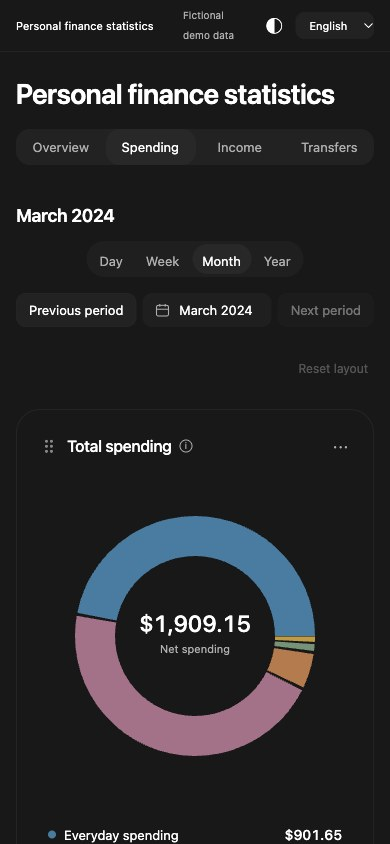
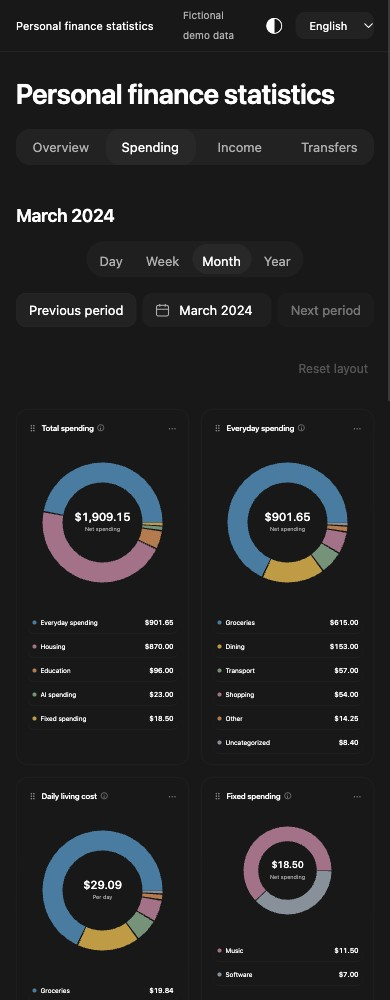
fix(report): Preserve two-column phone cards at proportional scale
Release v1.4.1 with zoom-aware drag coordinates and an updated fictional phone demo.

diff --git a/skills/personal-finance-visualizer/assets/app.js b/skills/personal-finance-visualizer/assets/app.js
@@ -358,15 +358,15 @@
     const saved=layouts[view]||[];arrange([...saved.filter(id=>byId.has(id)),...defaults.filter(id=>!saved.includes(id))]);
     const layoutView=view;let dragging=null,raf=0,moveAnimations=new Map();
     const boxes=()=>new Map(cards.filter(c=>!c.classList.contains('is-dragging')).map(c=>[c,c.getBoundingClientRect()]));
-    function animateMove(before){if(reducedMotion())return;for(const [card,old]of before){moveAnimations.get(card)?.cancel();const now=card.getBoundingClientRect(),dx=old.left-now.left,dy=old.top-now.top;if(Math.abs(dx)+Math.abs(dy)<1)continue;const animation=card.animate([{transform:`translate(${dx}px,${dy}px)`},{transform:'translate(0,0)'}],{duration:220,easing:'cubic-bezier(.22,1,.36,1)'});moveAnimations.set(card,animation);animation.onfinish=()=>{if(moveAnimations.get(card)===animation)moveAnimations.delete(card);};}}
+    function animateMove(before){if(reducedMotion())return;for(const [card,old]of before){moveAnimations.get(card)?.cancel();const now=card.getBoundingClientRect(),dx=old.left-now.left,dy=old.top-now.top;if(Math.abs(dx)+Math.abs(dy)<1)continue;const zoom=Number(getComputedStyle(card).zoom)||1;const animation=card.animate([{transform:`translate(${dx/zoom}px,${dy/zoom}px)`},{transform:'translate(0,0)'}],{duration:220,easing:'cubic-bezier(.22,1,.36,1)'});moveAnimations.set(card,animation);animation.onfinish=()=>{if(moveAnimations.get(card)===animation)moveAnimations.delete(card);};}}
     function save(){const ids=current(),visible=new Set(ids),old=layouts[layoutView]||defaults,queue=ids.slice();layouts[layoutView]=[...old.map(id=>visible.has(id)?queue.shift():id),...queue].filter(Boolean);write(t('layoutSaved'));}
     function write(message){try{localStorage.setItem(layoutStorageKey,JSON.stringify({version:1,views:layouts}));status.textContent=message;warning.hidden=true;}catch{warning.textContent=t('layoutUnavailable');warning.hidden=false;}reset.disabled=!layouts[layoutView];}
     function restore(){if(dragging)finish(false);const before=boxes();arrange(defaults);delete layouts[layoutView];write(t('layoutReset'));animateMove(before);}
     reset.disabled=!layouts[view];
     const orderAnnouncement=card=>{status.textContent=card.querySelector('h2')?.textContent+' · '+(current().indexOf(card.dataset.cardId)+1)+' / '+cards.length;};
     function start(event,card,header){if(event.button!==0||dragging||event.target.closest('button:not(.drag-handle),input,select,a,summary,.chart-menu'))return;event.preventDefault();header.querySelector('.drag-handle').focus({preventScroll:true});dragging={card,header,id:event.pointerId,startX:event.clientX,startY:event.clientY,x:event.clientX,y:event.clientY,before:current(),active:false,lastMove:0};header.setPointerCapture(event.pointerId);}
-    function activate(){const d=dragging,rect=d.card.getBoundingClientRect();moveAnimations.get(d.card)?.cancel();d.rect=rect;d.style=d.card.getAttribute('style');d.placeholder=e('div','card-placeholder');d.placeholder.dataset.cardSpan=d.card.dataset.cardSpan;d.placeholder.style.height=rect.height+'px';d.placeholder.setAttribute('aria-hidden','true');d.card.before(d.placeholder);d.card.classList.add('is-dragging');Object.assign(d.card.style,{position:'fixed',left:rect.left+'px',top:rect.top+'px',width:rect.width+'px',height:rect.height+'px',margin:'0',zIndex:'1000',pointerEvents:'none'});document.body.classList.add('layout-dragging');d.active=true;hideChartTip();raf=requestAnimationFrame(tick);}
-    function tick(now){const d=dragging;if(!d?.active)return;d.card.style.transform=`translate3d(${d.x-d.startX}px,${d.y-d.startY}px,0)`;const scroll=d.y<72?-Math.ceil((72-d.y)/6):d.y>innerHeight-72?Math.ceil((d.y-innerHeight+72)/6):0;if(scroll)window.scrollBy(0,scroll);
+    function activate(){const d=dragging,rect=d.card.getBoundingClientRect();moveAnimations.get(d.card)?.cancel();d.rect=rect;d.zoom=Number(getComputedStyle(d.card).zoom)||1;d.style=d.card.getAttribute('style');d.placeholder=e('div','card-placeholder');d.placeholder.dataset.cardSpan=d.card.dataset.cardSpan;d.placeholder.style.height=rect.height+'px';d.placeholder.setAttribute('aria-hidden','true');d.card.before(d.placeholder);d.card.classList.add('is-dragging');Object.assign(d.card.style,{position:'fixed',left:rect.left/d.zoom+'px',top:rect.top/d.zoom+'px',width:rect.width/d.zoom+'px',height:rect.height/d.zoom+'px',margin:'0',zIndex:'1000',pointerEvents:'none'});document.body.classList.add('layout-dragging');d.active=true;hideChartTip();raf=requestAnimationFrame(tick);}
+    function tick(now){const d=dragging;if(!d?.active)return;d.card.style.transform=`translate3d(${(d.x-d.startX)/d.zoom}px,${(d.y-d.startY)/d.zoom}px,0)`;const scroll=d.y<72?-Math.ceil((72-d.y)/6):d.y>innerHeight-72?Math.ceil((d.y-innerHeight+72)/6):0;if(scroll)window.scrollBy(0,scroll);
       const target=document.elementFromPoint(d.x,d.y)?.closest('[data-card-id]');if(target&&target!==d.card&&target.parentElement===board&&now-d.lastMove>240){const siblings=[...board.children].filter(n=>n!==d.card);const from=siblings.indexOf(d.placeholder),targetIndex=siblings.indexOf(target),after=targetIndex>from,at=targetIndex+(after?1:0),to=at>from?at-1:at;if(from!==to){const before=boxes();if(after)target.after(d.placeholder);else target.before(d.placeholder);animateMove(before);d.lastMove=now;}}
       raf=requestAnimationFrame(tick);
     }

diff --git a/skills/personal-finance-visualizer/assets/report.css b/skills/personal-finance-visualizer/assets/report.css
@@ -115,3 +115,12 @@
 @keyframes finance-dialog-enter{from{opacity:0;transform:translateY(10px) scale(.98)}to{opacity:1;transform:translateY(0) scale(1)}}@keyframes finance-backdrop-enter{from{opacity:0}to{opacity:1}}@keyframes finance-menu-enter{from{opacity:0;transform:translateY(-3px) scale(.97)}to{opacity:1;transform:none}}@keyframes finance-tooltip-enter{from{opacity:0;translate:0 3px}to{opacity:1;translate:0 0}}
 @media(prefers-reduced-motion:reduce){*,*::before,*::after{animation:none!important;transition:none!important}.ring-legend .legend-row:active,.segments>button:active{transform:none}}
 .ring-plot:not(.empty-ring)>.empty-caption{position:absolute;bottom:8px;text-align:center;width:100%}
+
+/* Two proportional cards on phones; charts and details retain the full row. */
+@media(max-width:700px){
+  .card-board{grid-template-columns:repeat(2,minmax(0,1fr));gap:12px}
+  .card-board>[data-card-span=third],.card-board>[data-card-span=half]{grid-column:span 1}
+  .card-board>[data-card-span=full],.board-note{grid-column:1/-1}
+  .card-board>.ring-card,.card-board>.metric-card{zoom:.5}
+  .card-board>.card-placeholder{border-radius:12px}
+}

diff --git a/skills/personal-finance-visualizer/scripts/check_update.py b/skills/personal-finance-visualizer/scripts/check_update.py
@@ -7,7 +7,7 @@ import urllib.request
 from pathlib import Path
 
 REPOSITORY = "JasonHMY/personal-finance-visualizer"
-VERSION = "1.4.0"
+VERSION = "1.4.1"
 URL = f"https://api.github.com/repos/{REPOSITORY}/releases/latest"
 
 

diff --git a/skills/personal-finance-visualizer/SKILL.md b/skills/personal-finance-visualizer/SKILL.md
@@ -3,7 +3,7 @@ name: personal-finance-visualizer
 description: Turn user-provided personal finance records into a local interactive report with spending, income, transfers and cash movement in English or Chinese. Use for statement-based finance charts and period comparisons, not bank-account actions or investment advice.
 license: MIT-0
 metadata:
-  version: "1.4.0"
+  version: "1.4.1"
   repository: "https://github.com/JasonHMY/personal-finance-visualizer"
 ---
 
@@ -13,7 +13,7 @@ Prepare a reconciled dataset and show it in a local report. Use the user's langu
 
 ## Preserve the report interface
 
-Render the bundled `assets/report.html`, `report.css`, `app.js` and `engine.js` through `scripts/report.py`. These files are the maintained interface, not suggestions for generating a new dashboard. Do not substitute a different design, metric cards, tabs or chart library. The default is the dark circular report: four view buttons aligned to the heading’s right; period controls with a calendar popover (Monday-first day/week selection, month and year grids, dates restricted to supplied coverage, keyboard navigation and reduced motion); three primary spending rings, three secondary rings, merchant breakdown rings, timeline and collapsed details. Income uses two primary and three secondary rings, transfers use two rings and three metrics, and overview uses three metrics. Show at most six legend rows with internal scrolling and edge fades. Preserve rounded row feedback and pointer/keyboard chart tooltips. Spending, income and transfer timelines default to a gradient area chart with real-date scrubbing, bounded smoothing, interruptible period changes, keyboard drill-down and reduced-motion support. Keep the labeled, horizontally scrollable bar chart as a selectable alternative. Area-chart tooltips show actual observations, never interpolated amounts. Arrange the cards in a responsive grid. Allow header dragging across the current view, keyboard reordering, cancellation and a per-view reset. Keep the default everyday merchant breakdown cards without a merchant-group selector or a visible drag instruction line. Center the day/week/month/year control on the page independently of the adjacent period label and date navigation. Use the same interruptible sliding indicator for view, period and chart-style switches, with brief opacity/position transitions only on affected visible content. Theme changes use a short color transition. Reduced motion disables nonessential animation. Create collapsed transaction tables and monthly summaries when opened, reuse number formatters and avoid repeated formatting inside chart-point animation loops. Group the bottom summaries, transaction tables, all-month overview, refunds and notes under one collapsed More information section, retaining their individual inner disclosures. Show card explanations on the information control. Keep card surfaces continuously visible when switching periods. Preserve interruptible ring and center/legend amount interpolation, with legend rows revealing from top to bottom and final values exact. Use the existing palette and layout unless the user requests a visual redesign. Animate disclosure panels, dialogs, menus and small control feedback without blocking input; respect reduced motion and defer offscreen animations. Change the design only if the user requests it.
+Render the bundled `assets/report.html`, `report.css`, `app.js` and `engine.js` through `scripts/report.py`. These files are the maintained interface, not suggestions for generating a new dashboard. Do not substitute a different design, metric cards, tabs or chart library. The default is the dark circular report: four view buttons aligned to the heading’s right; period controls with a calendar popover (Monday-first day/week selection, month and year grids, dates restricted to supplied coverage, keyboard navigation and reduced motion); three primary spending rings, three secondary rings, merchant breakdown rings, timeline and collapsed details. Income uses two primary and three secondary rings, transfers use two rings and three metrics, and overview uses three metrics. Show at most six legend rows with internal scrolling and edge fades. Preserve rounded row feedback and pointer/keyboard chart tooltips. Spending, income and transfer timelines default to a gradient area chart with real-date scrubbing, bounded smoothing, interruptible period changes, keyboard drill-down and reduced-motion support. Keep the labeled, horizontally scrollable bar chart as a selectable alternative. Area-chart tooltips show actual observations, never interpolated amounts. Arrange the cards in a responsive grid. At widths of 700px or less, keep two ring/metric cards per row, proportionally scaled to 0.5 with a 12px gap; keep timelines and details full-width. Preserve zoom-aware drag coordinates and move transitions. Allow header dragging across the current view, keyboard reordering, cancellation and a per-view reset. Keep the default everyday merchant breakdown cards without a merchant-group selector or a visible drag instruction line. Center the day/week/month/year control on the page independently of the adjacent period label and date navigation. Use the same interruptible sliding indicator for view, period and chart-style switches, with brief opacity/position transitions only on affected visible content. Theme changes use a short color transition. Reduced motion disables nonessential animation. Create collapsed transaction tables and monthly summaries when opened, reuse number formatters and avoid repeated formatting inside chart-point animation loops. Group the bottom summaries, transaction tables, all-month overview, refunds and notes under one collapsed More information section, retaining their individual inner disclosures. Show card explanations on the information control. Keep card surfaces continuously visible when switching periods. Preserve interruptible ring and center/legend amount interpolation, with legend rows revealing from top to bottom and final values exact. Use the existing palette and layout unless the user requests a visual redesign. Animate disclosure panels, dialogs, menus and small control feedback without blocking input; respect reduced motion and defer offscreen animations. Change the design only if the user requests it.
 
 ## Data boundary
 

diff --git a/demo/README.md b/demo/README.md
@@ -8,9 +8,9 @@ All records, names, dates and amounts are invented. Nothing is sampled, anonymiz
 python3 skills/personal-finance-visualizer/scripts/demo_data.py > demo/sample.json
 ```
 
-These ten screenshots were captured from the 1.3.0 report using only that fixture. They show the actual UI, including expanded detail and note states. The language switch translates controls; original merchant descriptions and categories stay in the supplied language, apart from the demo's built-in example labels.
+The phone screenshot is from 1.4.1; the nine desktop screenshots are from 1.3.0. All use only that fixture. They show the actual UI, including expanded detail and note states. The language switch translates controls; original merchant descriptions and categories stay in the supplied language, apart from the demo's built-in example labels.
 
-以下十张截图均来自1.3.0 报表，只使用上述样例。它们展示实际界面，包括展开的明细与说明。语言切换会翻译控件；除演示内置的示例标签外，原始商户说明和分类保留输入语言。
+手机截图来自1.4.1版，其余九张桌面截图来自1.3.0版，均只使用上述样例。它们展示实际界面，包括展开的明细与说明。语言切换会翻译控件；除演示内置的示例标签外，原始商户说明和分类保留输入语言。
 
 | File / 文件 | View / 内容 |
 | --- | --- |

diff --git a/docs/visual-guide.md b/docs/visual-guide.md
@@ -2,7 +2,7 @@
 
 [简体中文](visual-guide.zh-CN.md) · [Project home](../README.md) · [Install](../README.md#install-as-an-agent-skill) · [Input schema](../skills/personal-finance-visualizer/references/schema.md)
 
-This is the interface included in version 1.3.0. Every screenshot uses the same entirely fictional USD dataset. The pictures are real report captures, not mockups. Click a picture to view its full-size file.
+Desktop screenshots show version 1.3.0; the phone screenshot shows the two-column layout in 1.4.1. Every screenshot uses the same entirely fictional USD dataset. The pictures are real report captures, not mockups. Click a picture to view its full-size file.
 
 ## Spending: the full picture, then the categories
 
@@ -70,7 +70,7 @@ The theme control switches between dark and light locally, without a network req
 
 ![Light theme on the spending page](../demo/expenses-light-en.jpg)
 
-At narrow widths the cards stack into one column and controls wrap. Transaction tables can scroll horizontally to retain their fields.
+At widths up to 700px, ring and metric cards use two columns at half scale with 12px gaps. Timelines and details retain the full row, and controls wrap. Transaction tables can scroll horizontally to retain their fields.
 
 <img src="../demo/mobile-en.jpg" alt="Spending page at a narrow screen width" width="360">
 

diff --git a/docs/visual-guide.zh-CN.md b/docs/visual-guide.zh-CN.md
@@ -2,7 +2,7 @@
 
 [English](visual-guide.md) · [项目首页](../README.zh-CN.md) · [安装](../README.zh-CN.md#安装为-agent-skill) · [输入格式](../skills/personal-finance-visualizer/references/schema.md)
 
-这里展示的是 1.3.0 版内置界面。全部截图使用同一份完全虚构的美元数据，是实际报表截图，不是设计稿。点击图片可查看原图。
+桌面截图来自1.3.0版；手机截图已更新为1.4.1版双列布局。全部截图使用同一份完全虚构的美元数据，是实际报表截图，不是设计稿。点击图片可查看原图。
 
 ## 消费：先看整体，再看分类
 
@@ -70,7 +70,7 @@
 
 ![浅色主题消费页](../demo/expenses-light-en.jpg)
 
-窄屏下卡片排列为一列，控件自动换行。交易表格可横向滚动，保留所有字段。
+700px及以下，圆环卡和金额卡按一半比例双列排列，间距12px；趋势图和明细保持整行，控件自动换行。交易表格可横向滚动，保留所有字段。
 
 <img src="../demo/mobile-en.jpg" alt="窄屏下的消费页面" width="360">
 

diff --git a/CHANGELOG.md b/CHANGELOG.md
@@ -1,5 +1,10 @@
 # Changelog
 
+## 1.4.1 — 2026-10-23
+
+- On phones up to 700px wide, display two proportional half-scale ring/metric cards per row with 12px gaps; keep timelines and details full-width. Compensate drag positions and move transitions for card zoom. Desktop layout and accounting are unchanged.
+- 手机宽度700px及以下时，圆环卡和金额卡按一半比例双列显示，间距12px；趋势图和明细保持整行。补偿缩放后的拖拽坐标和位移动画，桌面布局及核算口径不变。
+
 ## 1.4.0 — 2026-10-23
 
 - Keep cards visible while rings, center totals and identity-matched list amounts transition continuously. Stagger list entries; refine dialogs, disclosures, menus and tooltips with reduced-motion support.

diff --git a/README.md b/README.md
@@ -13,6 +13,8 @@ Cards stay visible during transitions. Rings and amounts animate continuously; l
 
 ## What it does
 
+On phones (700px or narrower), ring and metric cards use two columns at half scale with a 12px gap. Timelines and details keep the full row; drag reordering accounts for the scaled cards. Desktop layout is unchanged.
+
 - Four views: overview, spending, income and transfers.
 - Daily, weekly, monthly and yearly periods, clipped to confirmed data coverage. Weeks start on Monday.
 - English and Simplified Chinese controls, with transaction details and compact, expandable explanations.

diff --git a/README.zh-CN.md b/README.zh-CN.md
@@ -13,6 +13,8 @@
 
 ## 支持什么
 
+手机宽度为700px及以下时，圆环卡和金额卡按一半比例显示，每行两张，间距12px。趋势图和明细保持整行，拖拽排序已适配缩放后的卡片，桌面布局不变。
+
 - 四个视图：收支总览、消费、收入和转账。
 - 支持天、周、月和年，期间裁剪到已确认的数据范围；每周从周一开始。
 - 支持英文和简体中文控件，可查看交易明细，说明默认简洁并可展开。
